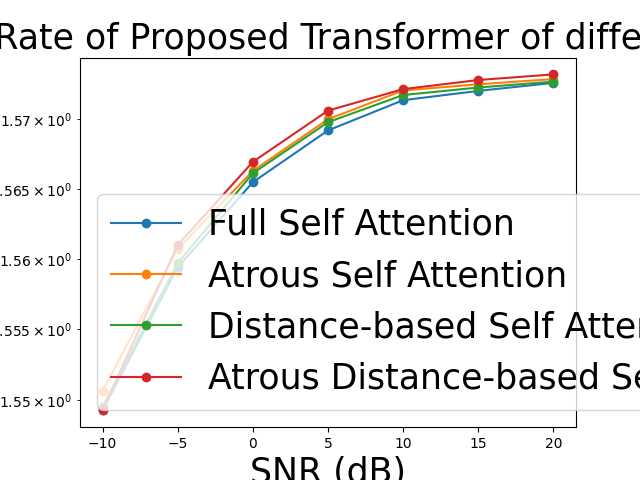
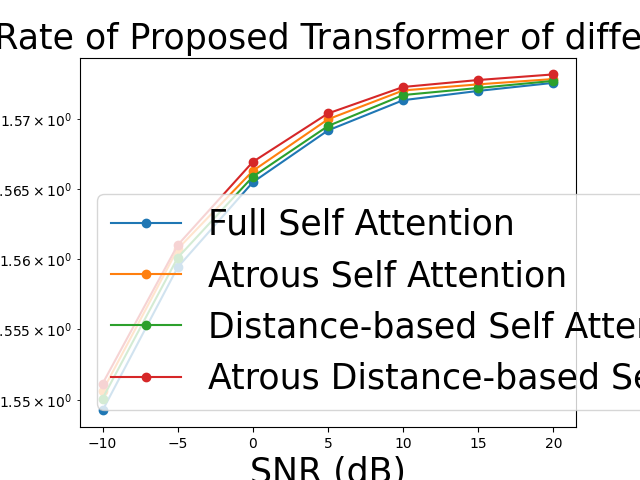
message

diff --git a/SPR-CNN/result-modality-transformer.py b/SPR-CNN/result-modality-transformer.py
@@ -250,13 +250,13 @@ plt.grid(True)
 plt.show()
 ####################################################################################################################
 # 比例值
-values = [1.0, 0.5, 7/16, 4/16]
+values = [1.0, 0.5, 538/1024, 280/1024]
 labels = ['Full Self Attention', 'Atrous Self Attention', 'Distance-based Self Attention', 'Atrous Distance-based Self Attention']
 
 # 创建条形图
 plt.bar(labels, values)
 
-plt.xticks(fontsize=20)  # 调整x轴标签字体大小
+plt.xticks(fontsize=14)  # 调整x轴标签字体大小
 
 # 添加标题和标签
 plt.title('Comparison of calculation loading ratio of different Sparse Attention and Full Self Attention', fontsize=fontsize)
@@ -289,13 +289,13 @@ y2 = [0.038145072758197784, 0.027047526091337204, 0.02087853103876114, 0.0167797
 # 自己寫的 multi-head self attention, Distance Self Attention
 # encoder ff layer 用 Conv1D, decoder ff layer 用 ffn
 # modality-aware transformers
-y3 = [0.039379578083753586, 0.028154458850622177, 0.021071387454867363, 0.017013927921652794, 0.014845786616206169, 0.014248121529817581, 0.0137781398370862]
+y3 = [0.038724351674318314, 0.027728276327252388, 0.02133762463927269, 0.017316358163952827, 0.014847148209810257, 0.014284402132034302, 0.013717515394091606]
 
 # Transformers(Encoder * 2 + Decoder * 2, (16 * 32 * 4)), epochs = 200, lr = 0.0001, batch_size = 32
 # 自己寫的 multi-head self attention, atrous_and_distance_self_attention, d = 2, windows = 6
 # encoder ff layer 用 Conv1D, decoder ff layer 用 ffn
 # modality-aware transformers
-y4 = [0.037573281675577164, 0.026736173778772354, 0.02016441710293293, 0.016090845689177513, 0.014339765533804893, 0.013647235929965973, 0.013198921456933022]
+y4 = [0.037573281675577164, 0.026736173778772354, 0.02016441710293293, 0.016315100714564323, 0.014203720726072788, 0.013647235929965973, 0.013198921456933022]
 
 # draw
 plt.plot(x, y1, marker='o', label='Full Self Attention')
@@ -342,13 +342,13 @@ y2 = [15.506321704157296, 15.60704432309743, 15.662732238044741, 15.699613395939
 # 自己寫的 multi-head self attention, Distance Self Attention
 # encoder ff layer 用 Conv1D, decoder ff layer 用 ffn
 # modality-aware transformers
-y3 = [15.495073466994242, 15.597029174869308, 15.660994609097447, 15.697509075343214, 15.716983071441868, 15.722346618774578, 15.726562977136382]
+y3 = [15.501044656005213, 15.600885983690185, 15.658595399333276, 15.694790560164428, 15.716970865372833, 15.722021087263872, 15.727106743935753]
 
 # Transformers(Encoder * 2 + Decoder * 2, (16 * 32 * 4)), epochs = 200, lr = 0.0001, batch_size = 32
 # 自己寫的 multi-head self attention, atrous_and_distance_self_attention, d = 2, windows = 6
 # encoder ff layer 用 Conv1D, decoder ff layer 用 ffn
 # modality-aware transformers
-y4 = [15.511528572054784, 15.609860095464892, 15.669164710042915, 15.705803269277581, 15.721524322830959, 15.727737112861892, 15.731757566231902]
+y4 = [15.511528572054784, 15.609860095464892, 15.669164710042915, 15.703788696782645, 15.722745045439746, 15.727737112861892, 15.731757566231902]
 
 
 y1 = [value / 10 for value in y1]

diff --git a/SPR-CNN/loop.py b/SPR-CNN/loop.py
@@ -22,40 +22,10 @@ SNR_dB_range = range(-10, 101, 5)
 # 遍历 SNR_dB 参数的范围
 for SNR_dB in SNR_dB_range:
     # 构建完整的命令字符串
-    command = f"{base_command} -10"
-    
-    # 执行命令
-    result = subprocess.run(command, shell=True)
-    # 构建完整的命令字符串
-    command = f"{base_command} -5"
-    
-    # 执行命令
-    result = subprocess.run(command, shell=True)
-    # 构建完整的命令字符串
-    command = f"{base_command} 0"
-    
-    # 执行命令
-    result = subprocess.run(command, shell=True)
-    # 构建完整的命令字符串
-    command = f"{base_command} 5"
-    
-    # 执行命令
-    result = subprocess.run(command, shell=True)
-    # 构建完整的命令字符串
     command = f"{base_command} 10"
     
     # 执行命令
-    result = subprocess.run(command, shell=True)
-    # 构建完整的命令字符串
-    command = f"{base_command} 15"
-    
-    # 执行命令
-    result = subprocess.run(command, shell=True)
-    # 构建完整的命令字符串
-    command = f"{base_command} 20"
-    
-    # 执行命令
-    result = subprocess.run(command, shell=True)    
+    result = subprocess.run(command, shell=True)   
     
     # 检查命令的执行结果
     if result.returncode == 0:

diff --git a/SPR-CNN/sparse_attention.py b/SPR-CNN/sparse_attention.py
@@ -244,7 +244,7 @@ def atrous_and_distance_self_attention_mask(N, dilation_rate):
     for i in range(N):
         for j in range(N):
             # abs(i - j) % dilation_rate == 0 and 
-            if ((abs(i - j) <= 6 and abs(i - j) >= 0) or (abs(i - j) <= 10 and abs(i - j) >= 9) or (abs(i - j) <= 14 and abs(i - j) >= 13)):
+            if abs(i - j) % dilation_rate == 0 and ((abs(i - j) <= 6 and abs(i - j) >= 0) or (abs(i - j) <= 10 and abs(i - j) >= 9) or (abs(i - j) <= 14 and abs(i - j) >= 13)):
                 mask[i, j] = 1
     return mask
 
